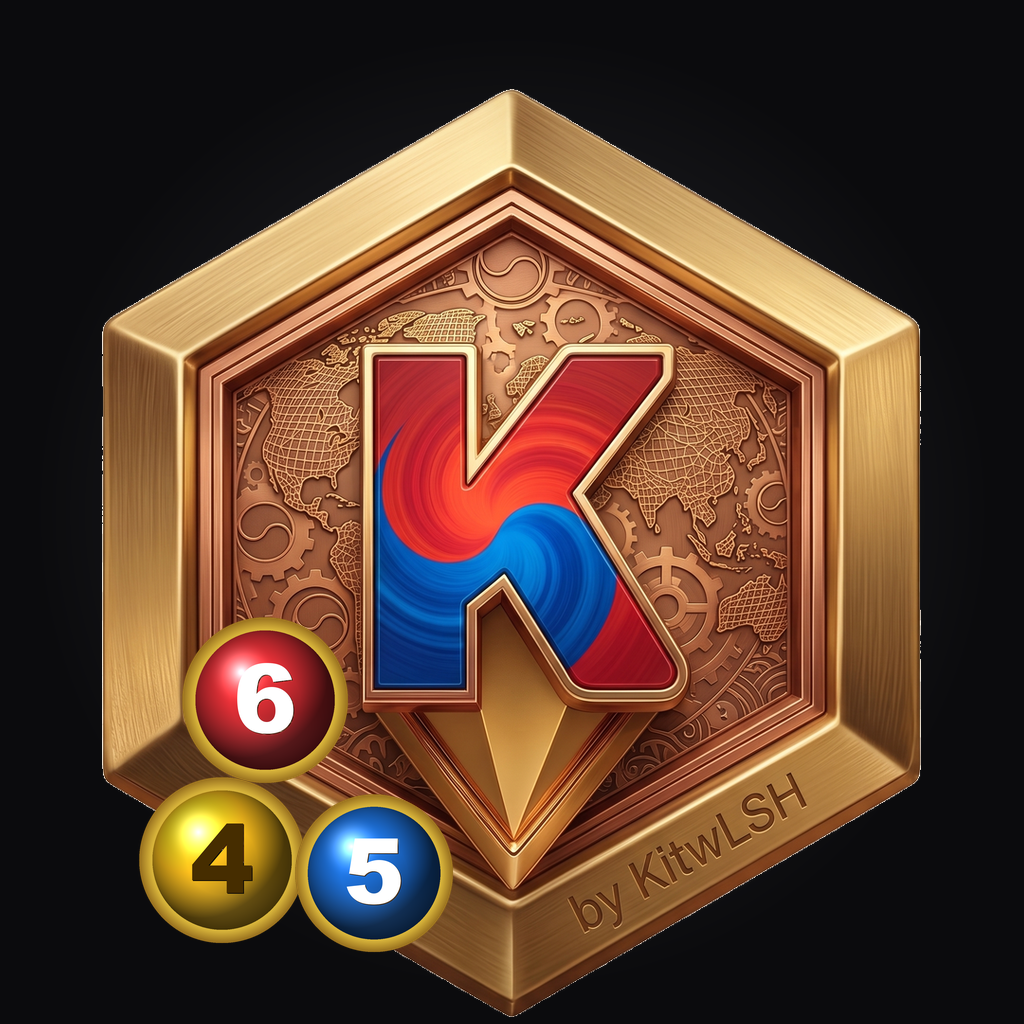
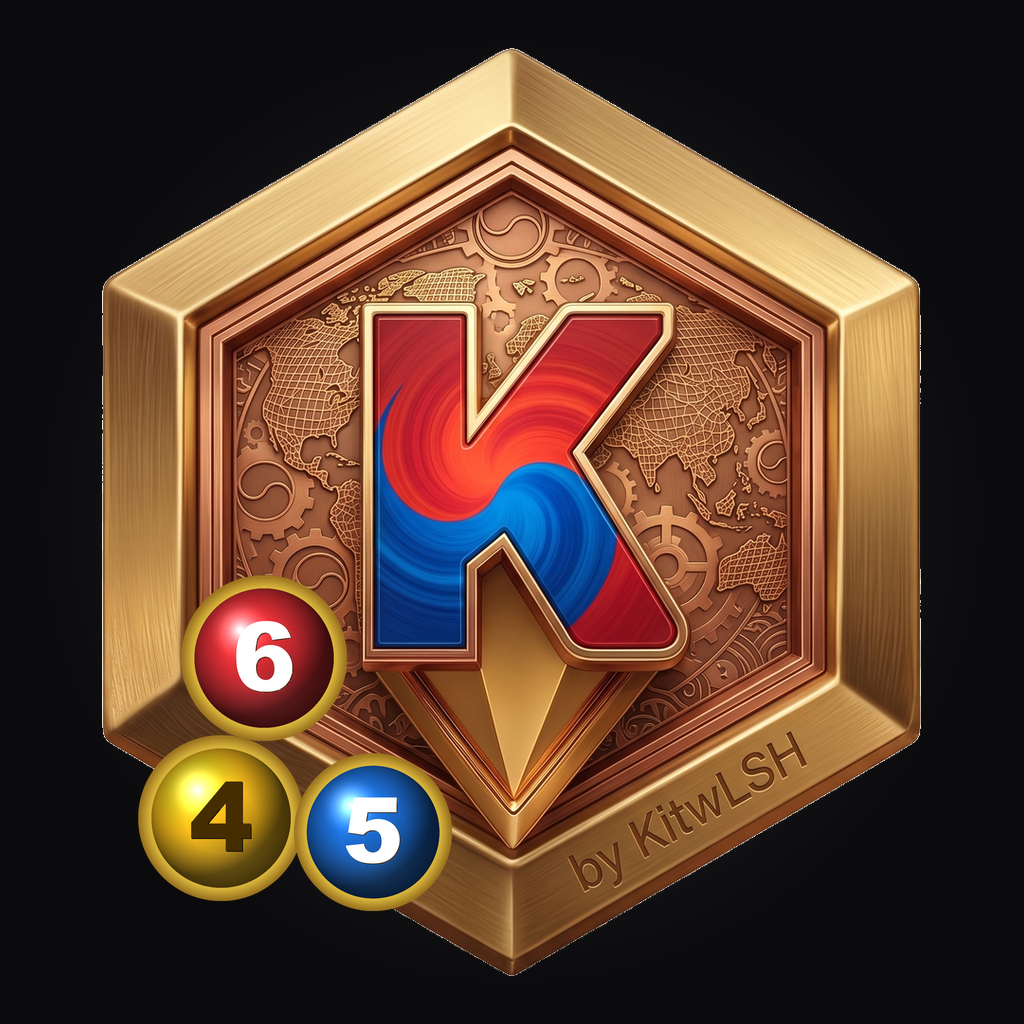
docs: 아이콘 레시피 갱신(bbox 중앙정렬·스플래시 크기 규칙) + KLotto645 패밀리 아카이브 갱신

diff --git a/doc/K_SERIES_ICON_RECIPE.md b/doc/K_SERIES_ICON_RECIPE.md
@@ -51,8 +51,9 @@ K로 시작하는 형제 앱(KDailyUtil · KLotto645 · 향후 K-DiviTrack, K-Pa
 
 ### KLotto645 확정 스펙 (디자인 A)
 - 배경: 라디얼 그라데이션 `#2c2c32`(중앙) → `#0b0b0d`(가장자리)
-- 엠블럼: 폭 372px(512 캔버스 기준), 중심 (262, 222)
-- 볼(r=54): **6**(빨강, 138·352) / **4**(금, 100·452) / **5**(파랑, 196·460) — 좌하단 삼각 클러스터
+- 엠블럼: **폭 = 캔버스의 0.80**, **bbox 중앙 정렬**(상하 여백 균형 → 상단 안 비고, KDailyUtil 런처 폭 0.80과 동일)
+  - ⚠ 육각형중심(hex-center)이 아니라 **bbox 중심**으로 정렬해야 상단이 안 빔. 폭 0.88↑는 마스크가 5시 슬랜트를 자름
+- 볼: **6**(빨강)/**4**(금)/**5**(파랑), 육각형 중심 기준 **상대 배치**(엠블럼 폭 대비 비율) — 좌하단 삼각 클러스터
 
 ---
 
@@ -109,5 +110,8 @@ K로 시작하는 형제 앱(KDailyUtil · KLotto645 · 향후 K-DiviTrack, K-Pa
 
 ### 구현 분기
 - **Compose 앱(KDailyUtil)**: `ui/screens/SplashScreen.kt` — shimmer/meteor Canvas 애니메이션 + `installSplashScreen()`.
-- **View/XML 앱(KLotto645)**: `SplashActivity` + `res/layout/activity_splash.xml` + `Theme.App.Starting`(system splash) + `Theme.<App>.Splash`. 애니메이션은 `ViewPropertyAnimator`/`ObjectAnimator`(페이드·확대·펄스)와 사선 shimmer View 스윕으로 재현. 의존성: `androidx.core:core-splashscreen`.
+- **View/XML 앱(KLotto645)**: `SplashActivity` + `res/layout/activity_splash.xml` + `Theme.App.Starting`(system splash) + `Theme.<App>.Splash`. 애니메이션은 `ViewPropertyAnimator`/`ObjectAnimator`(페이드·확대·펄스)와 shimmer로 재현. 의존성: `androidx.core:core-splashscreen`.
+  - **로고 크기**: 코드에서 `화면폭 × 0.80` 정사각으로 지정(KDailyUtil `fillMaxWidth(0.8)`와 동일). 에셋은 tight(여백X) 투명 PNG → fitCenter 시 높이 기준으로 맞아 KDailyUtil과 크기 일치.
+  - **확대 시 잘림 방지**: 로고 컨테이너들에 `android:clipChildren="false"` / `clipToPadding="false"` 필수(펄스/확대가 뷰 밖으로 나가도 안 잘림).
+  - **shimmer**: 커스텀 `ShimmerLogoView`가 `PorterDuff.SRC_ATOP`로 이미지 불투명 영역(엠블럼)에만 반사광을 얹음 → 아이콘 안에서만 빛이 흐름.
 - 공통: 런처 인텐트를 SplashActivity(또는 스플래시 표시 액티비티)에 두고, 실제 메인은 내부에서 실행.
